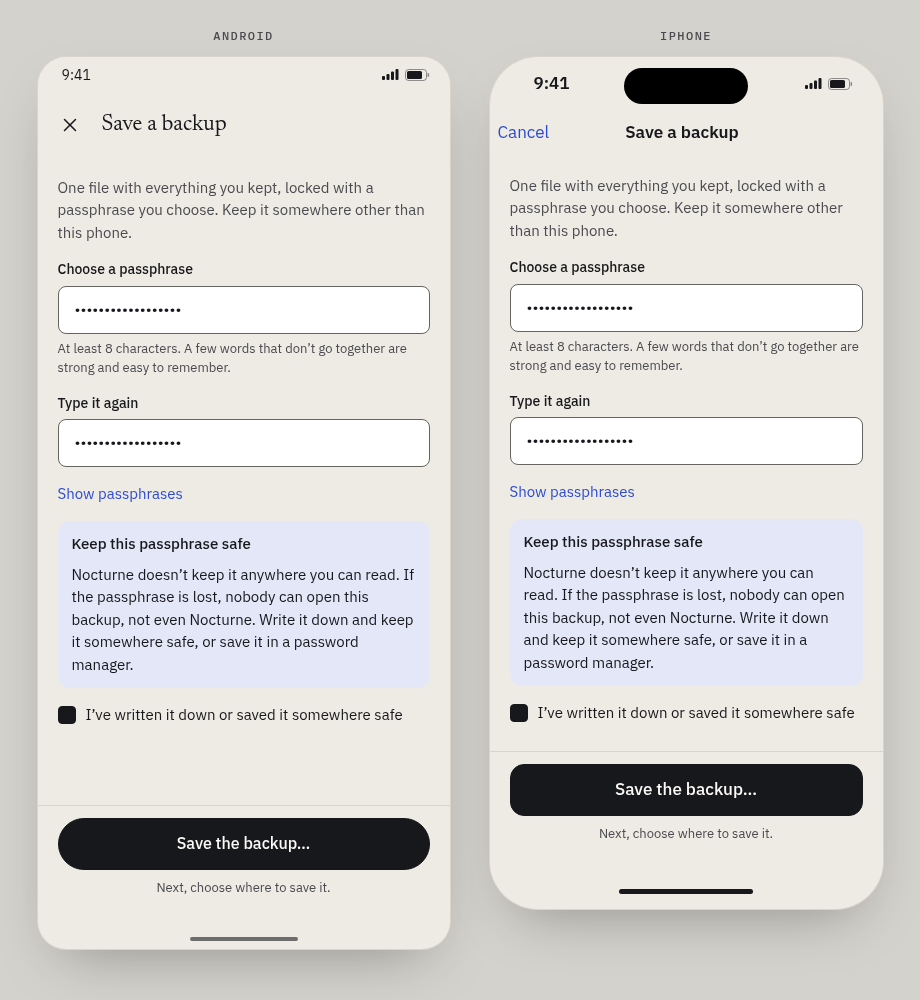
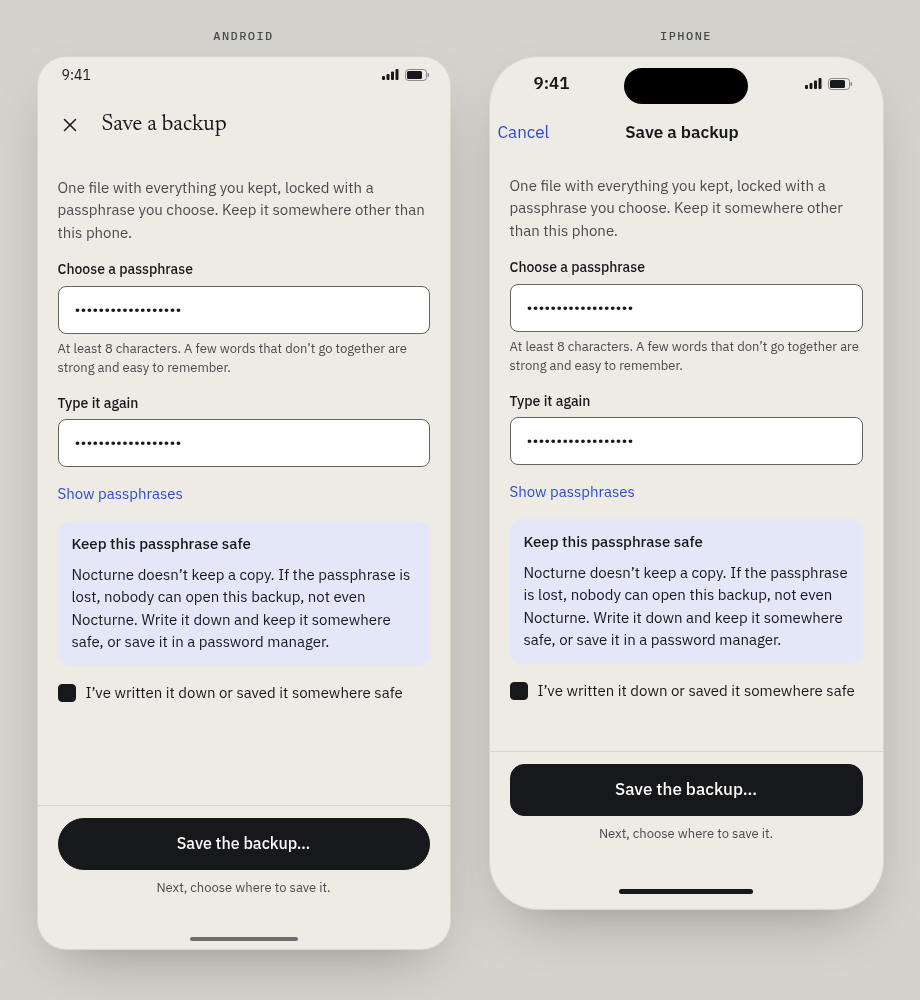
docs(design): settle the phone alone build gaps

Changed region(s): [[0.0609, 0.558, 0.4565, 0.744], [0.5478, 0.558, 0.9435, 0.744]]

diff --git a/docs/design/mockups/phone-parity/first-release.html b/docs/design/mockups/phone-parity/first-release.html
@@ -124,7 +124,7 @@
   <p class="link2" data-state="backup">Show passphrases</p>
   <div class="limit" data-state="backup" style="display: flex; flex-direction: column; gap: 8px">
     <strong style="font-weight: 500">Keep this passphrase safe</strong>
-    <span>Nocturne doesn’t keep it anywhere you can read. If the passphrase is lost, nobody can open this backup, not even Nocturne. Write it down and keep it somewhere safe, or save it in a password manager.</span>
+    <span>Nocturne doesn’t keep a copy. If the passphrase is lost, nobody can open this backup, not even Nocturne. Write it down and keep it somewhere safe, or save it in a password manager.</span>
   </div>
   <div data-state="backup" style="display: flex; gap: 10px; align-items: center"><span style="width: 18px; height: 18px; flex: none; border: 1.5px solid var(--ink); border-radius: 4px; background: var(--ink)"></span><span style="font-size: 0.9375rem">I’ve written it down or saved it somewhere safe</span></div>
   <div class="foot" data-state="backup"><span class="btn" data-kind="primary">Save the backup…</span><p class="barLine">Next, choose where to save it.</p></div>
@@ -181,7 +181,13 @@
   <div class="group" data-state="this-phone">
     <p class="ghead">This phone</p>
     <div class="rows">
-      <div class="row"><span class="rowText"><span class="rowLabel">Name</span></span><span class="rowValue">Maya’s phone</span><span class="rowChev" data-icon="chevron-right" data-size="18"></span></div>
+      <div class="row"><span class="rowText"><span class="rowLabel">Version</span></span><span class="rowValue">Nocturne 0.9.0</span></div>
+    </div>
+  </div>
+  <div class="group" data-state="this-phone">
+    <p class="ghead">Help</p>
+    <div class="rows">
+      <div class="row"><span class="rowText"><span class="rowLabel">Privacy policy</span></span><span class="rowChev" data-icon="chevron-right" data-size="18"></span></div>
       <div class="row"><span class="rowText"><span class="rowLabel">What this phone can do</span><span class="rowHint">Your memory is on this phone. It can keep, find, forget and delete, and save a backup to a file. Removing the app removes your memory from this phone. Save a backup first.</span></span></div>
     </div>
   </div>

diff --git a/docs/design/phone-first.md b/docs/design/phone-first.md
@@ -99,6 +99,8 @@ The screens above, with these differences in the first release. Every other word
 | Today, no mind card | As written; "Choose a mind" opens [Giving it a mind](#giving-it-a-mind-in-the-first-release) |
 | Ask | As written in [Ask with no mind](#7-ask-with-no-mind) |
 | This phone, Your memory | "Where it is", "Its mind" ("None yet"); no locked copy row |
+| This phone, This phone | "Version" / "Nocturne {version}". No "Name" row: a phone alone shows its name nowhere, and pairing asks for one if it is ever needed |
+| This phone, Help | "Privacy policy" (opens the policy page in the phone's browser) · "What this phone can do" |
 | This phone, actions | "Move my memory…", "Save a backup…", "Delete everything…". "Move my memory…" opens [Giving it a mind](#giving-it-a-mind-in-the-first-release), the one place a memory can move to in this release |
 | This phone, can do | "Your memory is on this phone. It can keep, find, forget and delete, and save a backup to a file." |
 
@@ -127,18 +129,31 @@ should Nocturne's mind be?](#where-should-nocturnes-mind-be) with this as its la
 | This phone row | "Save a backup…" / hint "Last backup {day}" or "No backup yet" |
 | Form title | "Save a backup" |
 | Form lead | "One file with everything you kept, locked with a passphrase you choose. Keep it somewhere other than this phone." |
-| Passphrase | 0013's fields, hint, note and tick |
+| Passphrase | 0013's fields, hint, note and tick. The note body is 0013's, word for word: "Nocturne doesn’t keep a copy. If the passphrase is lost, nobody can open this backup, not even Nocturne. Write it down and keep it somewhere safe, or save it in a password manager." |
 | Button | "Save the backup…" / under it "Next, choose where to save it." |
 | Saving | The phone's own save sheet, so the person chooses where: their files, a drive app, a computer |
 | Done | "Your backup is saved." / "{size}, made {time}." / "OK" |
 | Welcome link | "I have a backup" |
 | Restore title | "Bring back your memory" |
 | Restore lead | "Choose your backup file and type its passphrase." |
+| Restore file card | The file's name, then "{size} · made {day}" when the date can be read before the passphrase, else "{size}" alone |
 | Restore button | "Choose the file" then "Bring it back" |
 | Restore done | "Your memory is back on this phone." / "{count} things, every page and your journal." / "Continue" |
 
 A restore runs 0013's checks before anything shows. On a phone that already holds a memory, 0013's
-"Replace what's here?" applies, and what was here is put aside, never deleted. When the locked copy
+choice, worded for the phone:
+
+| Part | Copy |
+|---|---|
+| Title | "Replace what’s on this phone?" |
+| Body | "Restoring puts what’s on this phone now aside, then brings in the backup. Nothing is deleted. You can bring back what was here from {thisPhone}." |
+| Column, the backup | "In the backup · Comes in" / "Made {day}" · "Things kept {count}" · "Journal entries {count}" · "Photos and recordings {count}" |
+| Column, this phone | "On this phone now · Put aside, not deleted" / "Last kept {day}" · "Things kept {count}" · "Journal entries {count}" · "Photos and recordings {count}" · "Kept after the backup {count}", when above zero |
+| Already put aside | "Something is already put aside from {day}. It stays, and this is put aside as well." (0013) |
+| Buttons | "Keep what’s here" · "Replace with the backup"; neither is the default |
+
+What was put aside shows in This phone under Your memory as "Put aside {day}…", opening 0013's
+"Bring back what was put aside" and "Delete what was put aside", worded for this phone. When the locked copy
 ships, "I have a backup" offers both: "A locked copy online" and "A backup file".
 
 ### Behaviour
@@ -200,6 +215,50 @@ backups show their last time in This phone.
 **Notifications.** None in the first release: there is no page to announce, and the journal's rule
 keeps it off the lock screen.
 
+#### Reused screens, worded for a phone alone
+
+The companion's screens are reused on a phone alone, with these strings swapped. "Not shown" means
+the line has no meaning when the phone is the home. Keys are the companion's.
+
+| Screen | Key | Companion | A phone alone |
+|---|---|---|---|
+| Keep | `phone.keep.fromName` | "On your computer it will say “Kept from {name}”." | Not shown |
+| Keep | `phone.keep.kept.body` | "Your computer has it. It reads it shortly, and the dates can turn up on tomorrow’s page." | A note: "It’s on today’s journal, and Ask can find it by its words." A photo, document or voice note: "It’s on today’s journal, waiting to be read." A voice note the phone turned into words: "It’s on today’s journal, in words this phone heard." |
+| Keep | `phone.keep.kept.from` | "{kind} · {time} · kept from {name}" | "{kind} · {time}" |
+| Keep | `phone.keep.undo` | "Changed your mind? Until {time}" | "Changed your mind?" with no time: a phone alone can take back a keep from its page at any time |
+| Keep | `phone.keep.undo.late` | "It’s too late to take that back from the phone. Do it on your computer." | Not shown |
+| Keep | `phone.keep.waiting`, `phone.keep.waiting.body`, `phone.keep.waiting.from` | "Waiting." / "It’s on this phone and goes across when your computer is back…" | Not shown: a phone alone keeps at once |
+| Keep | `phone.keep.big.body` | "The limit is 50 MB. Keep it from your computer instead." | "Nocturne keeps files up to 50 MB." |
+| Keep | `phone.keep.failed.title`, `phone.keep.failed.body` | "That didn’t go across." / "Nothing was kept. Try again in a moment." | "That wasn’t kept." / "Nothing was kept. Try again." (no room: the phone-full line above) |
+| Keep | `phone.keep.micDenied` | "The microphone isn’t available. Allow it in your browser and try again." | "The microphone is off for Nocturne in your phone’s settings." with "Open phone settings" |
+| Share sheet | `phone.journal.keep.body` (the kept line) | "It’s on today’s journal. Your computer reads it shortly." | "It’s on today’s journal." |
+| Share sheet | Computer away | "Waiting." and the waiting words | Not shown |
+| Item | `phone.original.loading` | "Opening it from your computer…" | "Opening it…" |
+| Item | `phone.original.failed` | "That didn’t open. Your computer may be asleep. Try again in a moment." | "That didn’t open. Try again." |
+| Item | `phone.original.private` | "That one stays on your computer." | Not shown: private things open on the phone that holds them |
+| Item | `phone.original.zoom` | "Pinch to zoom. Shown from your computer; nothing is saved on this phone." | "Pinch to zoom." |
+| Item | `phone.original.text`, `phone.original.voice` | "Shown from your computer…" / "Played from your computer…" | Not shown |
+| Item | `phone.original.cantShow` | "This one can’t be shown on the phone. Open it on your computer." | "This one can’t be shown here. Save a copy to open it in another app." |
+| Item | `phone.original.cut` | "Only the start is shown here. Open it on your computer to read the rest." | "Only the start is shown here. Save a copy to read the rest in another app." |
+| Item | `phone.original.download` | "Save a copy on this phone" | "Save a copy…", opening the phone's save sheet |
+| Item | `phone.original.document.hint` | "It opens in your browser’s viewer. Viewing it saves nothing on this phone. Saving a copy does." | "It opens in your phone’s viewer." |
+| Item | `phone.original.heard` | "What Nocturne heard" | "Heard by this phone" |
+| Item | `phone.original.used` | "The highlighted part is what the answer used." | From Ask: "The highlighted words are what you looked for." Otherwise not shown |
+| Health ask | `phone.health.why.title` | "Bring health readings to your computer?" | "Show health readings in Nocturne?" |
+| Health ask | `phone.health.why.where` | "Only to your computer, in locked messages only your computer can open…" | "They stay on this phone, in Nocturne’s memory, and go wherever your memory goes: into a backup you save, a locked copy or a mind, only if you turn those on." |
+| Health ask | `phone.health.why.for` | "…and your page can show last night’s sleep." | "Your journal shows how you slept and moved beside what you wrote, and Today shows last night’s sleep." |
+| Health ask | `phone.health.done.body` | "Readings show on your computer as they go across. The first 30 days can take a minute." | "Readings show in your journal and on Today. The first 30 days can take a minute." |
+| Health ask | `phone.health.doneIos.body` | "Readings show on your computer as they go across." | "Readings show in your journal and on Today." |
+| Health rationale | `phone.rationale.why` | "…on your morning page, on your own computer." | "To show your readings beside your journal and last night’s sleep on Today, on this phone." |
+| Health rationale | `phone.rationale.where` | "Readings go only to the computer you paired…" | "Readings stay on this phone, in Nocturne’s memory, and in any backup you save. Nobody else receives them, including the people who make Nocturne. Nocturne has no account, no ads and no analytics." |
+| Health rationale | `phone.rationale.keeping` | "Your computer keeps readings until you delete them there." | "Nocturne keeps readings on this phone until you delete them." |
+| Health rationale | `phone.rationale.stopping` | "…To delete what went across, use {fromYourPhones} on your computer." | "Turn Health off in Nocturne’s {thisPhone}, or take the permission back in Health Connect. To delete readings already kept, use {deleteReadings} in {thisPhone}." |
+| Calendar and Health screens | `phone.sources.already` | "What already went across stays on your computer. To delete it, use {fromYourPhones} there." | "What Nocturne already kept stays until you delete it." with "Delete what was kept…", opening the computer's From your phones delete preview worded for this phone |
+| Calendar screen | `phone.calendar.stoppedOnComputer.*` | "Your computer isn’t taking your calendar from this phone." | Not shown |
+
+The companion's other computer lines (pairing, Ask's answer marks, the journal's footers, "Please
+update") belong to screens a phone alone does not show.
+
 #### Voice notes in words
 
 Where the phone can turn a recording into words with no network, it does, after the recording is
@@ -210,6 +269,17 @@ a recording online. A voice note's words show with "Heard by this phone" in the 
 later mind's reading can replace them. If the build check finds a platform cannot do this offline
 from a recording, that platform ships with voice notes waiting, and nothing else changes.
 
+Each phone asks once, with one plain line before its own prompt, and a "Continue" that opens it:
+
+| Phone | When | Line before the prompt | The phone's own prompt |
+|---|---|---|---|
+| Android | The first time the microphone is needed while alone: the first "Record", or the first voice note shared from another app if the microphone was never allowed. Android's recogniser needs the microphone even for a recording it reads from a file | "Next, Android asks to let Nocturne use the microphone. Nocturne records only while you hold Record, and turns voice notes into words on this phone." | Android's microphone prompt |
+| iPhone | Just after the first voice note is kept while alone, recorded or shared | "Next, iPhone asks to let Nocturne recognise speech. Nocturne asks for it on this iPhone only, so your voice notes become words without leaving it." | Apple's speech recognition prompt, with Nocturne's purpose: "Nocturne turns your voice notes into words on this iPhone so you can find them. They never leave it." |
+
+"Not now" or a refusal leaves voice notes "waiting to be read". This phone then shows a row "Voice
+notes in words" with "Off" and "Turn on", or, once the phone has refused it, "Off in your phone’s
+settings" with "Open phone settings". The voice note itself is always kept first.
+
 ### Empty states
 
 | Where | What shows |
@@ -217,7 +287,7 @@ from a recording, that platform ships with voice notes waiting, and nothing else
 | Today, first day | The date, the no-mind card, the check-in card, and "Nothing kept yet today. Tap {keep} to keep something." No calendar or Last night rows until they are brought and have something |
 | Today, calendar on, nothing today | "Nothing in your calendar today." |
 | Journal, a day with nothing | The approved empty day |
-| Ask, before typing | The placeholder and "Find anything you kept by its words." |
+| Ask, before typing | The placeholder and "Find anything you kept by its words." Once something is typed, an x button with the accessible name "Clear" empties the box |
 | Ask, nothing kept yet | "Nothing kept yet. What you keep can be found here by its words." |
 | This phone, no backup | "Save a backup…" with "No backup yet" |
 
@@ -225,8 +295,11 @@ from a recording, that platform ships with voice notes waiting, and nothing else
 
 | State | What shows |
 |---|---|
-| The phone is nearly full | In This phone and on Keep: "This phone is nearly full. Free some room so Nocturne can keep more." Keeping stops only when a save fails, with "There wasn’t room to keep this. Free some room and try again." and nothing half-kept |
-| The memory can’t be opened (damaged) | "Nocturne couldn’t open your memory on this phone." / "Nothing was deleted. Bring back a backup, or ask for help." with "I have a backup" and "Get help". The damaged store is put aside, never deleted |
+| The phone is nearly full | A banner on Today and on Keep, and a line under "Where it is" in This phone: "This phone is nearly full. Free some room so Nocturne can keep more." Shown when less than 500 MB is free, gone when there is more |
+| A keep that doesn't fit | On the Keep sheet, instead of "Kept.": "There wasn’t room to keep this. Free some room and try again." with "Try again". Nothing is half-kept |
+| Start can't make the memory | On "Your memory lives on this phone", under the button: "Nocturne couldn’t make your memory on this phone. Free some room, then try again." with "Try again". Nothing is made until it works |
+| The memory can’t be opened (damaged) | "Nocturne couldn’t open your memory on this phone." / "Nothing was deleted. Bring back a backup, or ask for help." with "I have a backup" and "Get help". "Get help" opens the help page for this case on Nocturne's site in the phone's browser; nothing is sent with it. The damaged store is put aside, never deleted |
+| After Delete everything (pending the owner) | Recommended: the app goes back to Welcome as on a new phone, with one line above the buttons: "Everything was deleted from this phone." The phone's own permissions for the calendar, Health and the microphone stay as the person set them; This phone's help says how to take them back in the phone's settings |
 | Calendar or health off in the phone's settings | As approved, worded "stays on this phone" |
 | A backup from a newer Nocturne | 0013's words |
 
@@ -421,7 +494,7 @@ the phone heard them, else "waiting to be read". No reflection is offered; where
 | | "A locked copy online" | "Off" or "Last copy {time}". Opens [A locked copy online](#a-locked-copy-online) |
 | What this phone brings | "Your calendar", "Health" | As approved |
 | When it sends | Not shown on a phone alone with no mind or copy | |
-| This phone | "Name" | "{name}". Editable here, since there is no computer to rename it on |
+| This phone | "Name" | Not shown on a phone alone, which shows its name nowhere; pairing asks for a name when it is needed |
 | | "Version" | "Nocturne {version}" |
 | Help | "Privacy policy", "What this phone can do" | "What this phone can do" reads "Your memory is on this phone. It can keep, find, forget and delete. It can save a backup to a file." |
 | Your memory | "Move my memory…" | Opens [Moving your memory](moving-memory.md) |
@@ -490,7 +563,7 @@ The backup form's words ([Back up and restore](backup-and-restore.md#the-form)),
 | Second field | "Type it again" (0013) |
 | Show | "Show passphrases" (0013) |
 | Note title | "Keep this passphrase safe" (0013) |
-| Note body | "Nocturne doesn’t keep it anywhere you can read. If the passphrase is lost, nobody can open this copy, not even Nocturne. You need it only on a new phone. Write it down and keep it somewhere safe, or save it in a password manager." |
+| Note body | "Nocturne doesn’t keep a copy. If the passphrase is lost, nobody can open this copy, not even Nocturne. You need it only on a new phone. Write it down and keep it somewhere safe, or save it in a password manager." |
 | Note tick | "I’ve written it down or saved it somewhere safe" (0013) |
 | Bar | "Turn on" · "Back" · disabled reason "Choose a passphrase, type it again and tick the box to go on." (0013) |
 
@@ -739,7 +812,7 @@ New strings only. Strings from Online answers, backup and the phone apps are mar
 | Copy, advanced | "Use storage you run instead" |
 | Copy, Google refused | "Nothing was turned on. Google didn’t allow the folder." |
 | Copy, step 2 | "A locked copy online · step 2 of 2" / "Choose a passphrase for the copy" |
-| Copy, keep safe body | "Nocturne doesn’t keep it anywhere you can read. If the passphrase is lost, nobody can open this copy, not even Nocturne. You need it only on a new phone. Write it down and keep it somewhere safe, or save it in a password manager." |
+| Copy, keep safe body | "Nocturne doesn’t keep a copy. If the passphrase is lost, nobody can open this copy, not even Nocturne. You need it only on a new phone. Write it down and keep it somewhere safe, or save it in a password manager." |
 | Copy, bar | "Turn on" / "Back" |
 | Copy, making | "Making the first copy" / "{done} of {size}" / "You can use Nocturne while this runs." |
 | Copy, made | "Your locked copy is online." / "Made {time}. It is made again every day." / "OK" |
@@ -792,6 +865,16 @@ New strings only. Strings from Online answers, backup and the phone apps are mar
 | First release, reminder | "No backup yet. If this phone is lost, what you kept goes with it." / "Save a backup" / "Not now" |
 | First release, can do | "Your memory is on this phone. It can keep, find, forget and delete, and save a backup to a file." |
 | Removing the app | "Removing the app removes your memory from this phone. Save a backup first." |
+| Replace on this phone | "Replace what’s on this phone?" / "Restoring puts what’s on this phone now aside, then brings in the backup. Nothing is deleted. You can bring back what was here from {thisPhone}." / "In the backup · Comes in" / "On this phone now · Put aside, not deleted" / "Things kept {count}" / "Journal entries {count}" / "Photos and recordings {count}" / "Keep what’s here" / "Replace with the backup" |
+| Put aside row | "Put aside {day}…" |
+| Keep, no room | "There wasn’t room to keep this. Free some room and try again." / "Try again" |
+| Start failed | "Nocturne couldn’t make your memory on this phone. Free some room, then try again." / "Try again" |
+| After Delete everything (pending) | "Everything was deleted from this phone." |
+| Voice, Android line | "Next, Android asks to let Nocturne use the microphone. Nocturne records only while you hold Record, and turns voice notes into words on this phone." |
+| Voice, iPhone line | "Next, iPhone asks to let Nocturne recognise speech. Nocturne asks for it on this iPhone only, so your voice notes become words without leaving it." |
+| Voice, iPhone purpose | "Nocturne turns your voice notes into words on this iPhone so you can find them. They never leave it." |
+| Voice, This phone row | "Voice notes in words" / "Off" / "Turn on" / "Off in your phone’s settings" / "Open phone settings" |
+| Find, clear | "Clear" |
 | Give it a mind | "Give Nocturne a mind" / "A mind reads what you keep, writes your page each morning and answers your questions. It can run on a computer of your own." / "1. Install Nocturne on your computer." / "2. Choose Add a phone there, and scan its code from this phone." / "3. Your memory moves to the computer, and this phone works with it." / "Scan the code" / "Not now" |
 | Backup, row | "Save a backup…" / "Last backup {day}" / "No backup yet" |
 | Backup, form | "Save a backup" / "One file with everything you kept, locked with a passphrase you choose. Keep it somewhere other than this phone." |

diff --git a/docs/logs/2026-11/22-settled-the-phone-alone-build-gaps.md b/docs/logs/2026-11/22-settled-the-phone-alone-build-gaps.md
@@ -1,0 +1,16 @@
+---
+type: Log Entry
+title: "Settled the gaps the phone alone build found."
+description: "Nocturne on a phone of its own now words every reused companion screen for a phone alone, takes 0013's backup note, words the replace choice, the voice note prompts, the full phone and failed start, settles This phone's rows, and recommends what follows Delete everything, pending the owner."
+tags: [log, update]
+kind: Changed
+status: stable
+---
+
+[Nocturne on a phone of its own](/design/phone-first.md#reused-screens-worded-for-a-phone-alone)
+lists the alone wording for Keep, the share sheet, an item's page and the Health ask, and adds
+deleting what the calendar and Health brought from This phone. The backup note is 0013's, "Nocturne
+doesn't keep a copy." A restore over a memory already on the phone uses 0013's choice worded for the
+phone. Each phone gets one line before its voice prompt. This phone shows Version and the privacy
+policy, and no Name row. After Delete everything the phone goes back to Welcome, pending the owner.
+The This phone and backup mockups are re-rendered.
